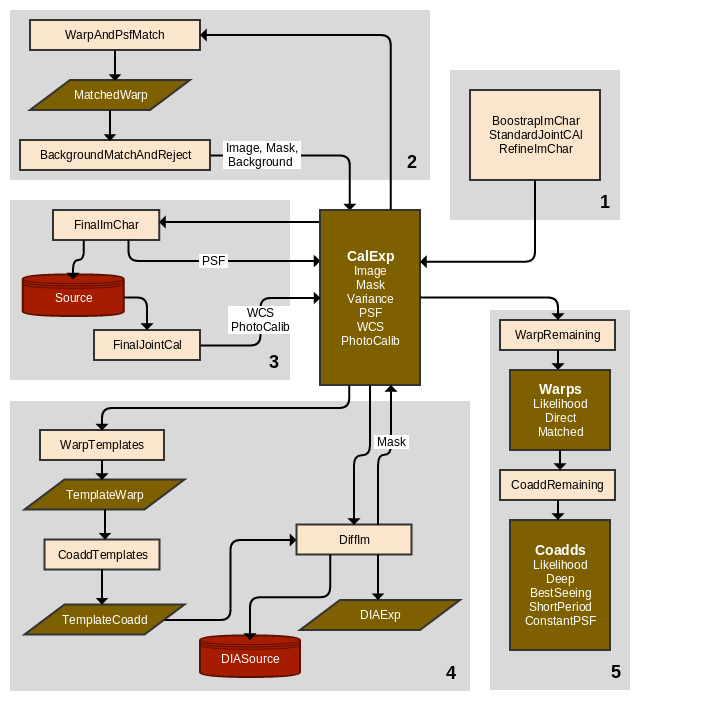
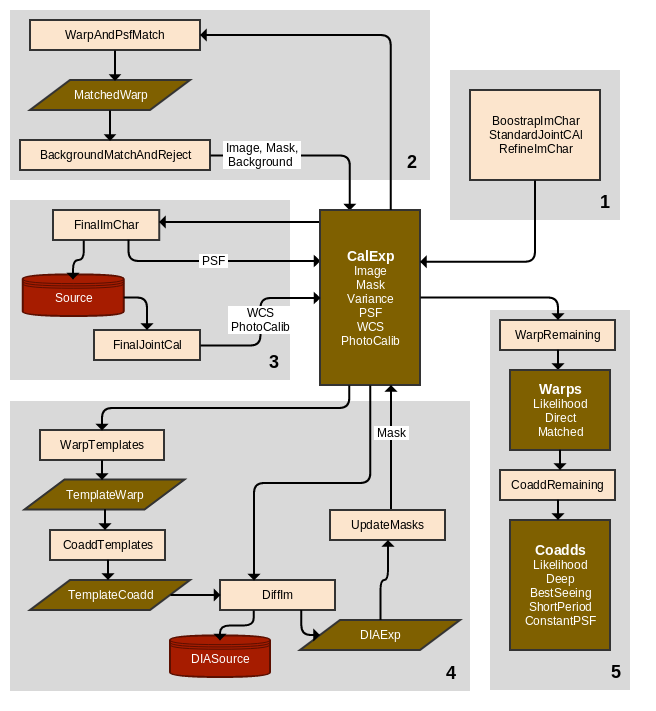
Extend DRP pipeline text through DiffIm.

diff --git a/sections/data_release_production_pipelines.tex b/sections/data_release_production_pipelines.tex
@@ -376,7 +376,7 @@ Note that RefineImChar does not update the CalExp's WCS, PhotoCalib, Image, or V
 \subsubsection{FinalImChar}
 \label{sec:drpFinalImChar}
 
-FinalImChar is responsible for producting the final PSF models and source measurements.  While similar to \hyperref[sec:drpRefineImChar]{RefineImChar}, it is run after at least one iteration of the \hyperref[sec:drpBackgroundMatchAndReject]{BackgroundMatchAndReject} and \hyperref[sec:drpDiffIm]{DiffIm} pipelines, which provide it with the final background model and mask, respectively.
+FinalImChar is responsible for producting the final PSF models and source measurements.  While similar to \hyperref[sec:drpRefineImChar]{RefineImChar}, it is run after at least one iteration of the \hyperref[sec:drpBackgroundMatchAndReject]{BackgroundMatchAndReject} and possibly \hyperref[sec:drpUpdateMasks]{UpdateMasks} pipelines, which provide it with the final background model and mask.
 
 The steps in FinalImChar are identical to those in \hyperref[sec:drpRefineImChar]{RefineImChar}, with just a few exceptions:
 
@@ -414,7 +414,7 @@ The processing flow in this pipeline group again centers around incremental upda
 \item The first version of the CalExp dataset is produced by running the \hyperref[sec:drpBootstrapImChar]{BootstrapImChar}, \hyperref[sec:drpStandardJointCal]{StandardJointCal}, and \hyperref[sec:drpRefineImChar]{RefineImChar} pipelines, as described in Section~\ref{sec:drp_imchar_and_jointcal}.
 \item We generate an updated Background and Mask via the \hyperref[sec:drpWarpAndPsfMatch]{WarpAndPsfMatch} and \hyperref[sec:drpBackgroundMatchAndReject]{BackgroundMatchAndReject} pipelines.  This produces the final CalExp Background and Image, and possibly the final Mask.
 \item If the CalExp Mask has been finalized, we run the \hyperref[sec:drpFinalImChar]{FinalImChar} and \hyperref[sec:drpFinalJointCal]{FinalJointCal} pipelines.  These produce the final PSF, WCS, and PhotoCal.  If the Mask has not been finalized, we execute at least one iteration of the next step before this one.
-\item We run the \hyperref[sec:drpWarpTemplates]{WarpTemplates}, \hyperref[sec:drpCoaddTemplates]{CoaddTemplates}, and \hyperref[sec:drpDiffim]{DiffIm} pipelines to generate the DIASource and DIAExp datasets.  These steps may generate better CalExp Masks than we can obtain from \hyperref[sec:drpBackgroundMatchAndReject]{BackgroundMatchAndReject}, and we may require multiple iterations of these pipelines to converge to the best Mask.
+\item We run the \hyperref[sec:drpWarpTemplates]{WarpTemplates}, \hyperref[sec:drpCoaddTemplates]{CoaddTemplates}, and \hyperref[sec:drpDiffIm]{DiffIm} pipelines to generate the DIASource and DIAExp datasets.  We may then be able to generate better CalExp Masks than we can obtain from \hyperref[sec:drpBackgroundMatchAndReject]{BackgroundMatchAndReject} by comparing the DIAExp masks across visits in the \hyperref[sec:drpUpdateMasks]{UpdateMasks} pipeline.
 \item After all CalExp components have been finalized, we run the \hyperref[sec:drpWarpRemaining]{WarpRemaining} and \hyperref[sec:drpCoaddRemaining]{CoaddRemaining} to build additional coadd data products.
 \end{enumerate}
 The baseline ordering of these steps is thus \{1,2,3,4,5\}, but \{1,2,4,3,4,5\} is perhaps just as likely, and we may ultimately require an ordering that repeats steps 2 or 3.  Final decisions on the ordering and number of iteration will require testing with mature pipelines and a deep dataset taken with a realistic cadence; it is possible the configuration could even change between data releases as the survey increases in depth.  Fortunately, this reconfiguring should not require significant new algorithm development.
@@ -432,19 +432,22 @@ This pipeline group is responsible for producing the following final data produc
 \item[TemplateCoadd] A coadd data product used for difference imaging in both DRP and AP, \emph{or} some other tract/patch/filter data product from which the template for a given airmass can be derived.
 \end{description}
 
-It is possible that our algorithms will allow some coadd data products to be merged, which will also have implications on the pipelines used to build them.  There are two major branch points:
+The nature of these coadd data products depends critically on whether we are able to develop efficient algorithms for optimal coaddition, and whether these coadds are suitable for difference imaging.  These algorithms are mathematically well-defined but computationally difficult; see \href{http://dmtn-015.lsst.io/en/latest/}{DMTN-15} for more information.  We will refer to the coadds produced by these algorithms as ``decorrelated coadds''; a variant with constant PSF (``constant-PSF partially decorrelatd coadd'') is also possible.  This choice is also mixed with the question of how we will correct for differential chromatic refraction in difference imaging; some algorithms for DCR correction involve templates that are the result of inference on input exposures rather than coaddition.  There are five main scenarios for our use of decorrelated coadds:
 \begin{description}
-\item[A] Can we develop an algorithm that efficiently decorrelates likelihood coadds (see \href{http://dmtn-015.lsst.io/en/latest/}{DMTN-15} and Section~\ref{sec:acCoaddDecorrelation})?
+  \item[A] \label{option:decorrelated-everything} We use decorrelated coadds for all final coadd products.  DeepCoadd and ShortPeriodCoadd will be standard decorrelated coadds with a spatially-varying PSF, and ConstantPSFCoadd and TemplateCoadd will be constant-PSF partially-decorrelated coadds.  The BestSeeingCoadd data product will be dropped, as it will be redundant with DeepCoadd.  This will make coadds more expensive and complex to build, and require more algorithm development for coaddition, but will improve coadd-based measurements, make it easier to warm-start multi-epoch measurements.  Difference imaging may be easier, and more visits may be usable as inputs to templates due to softened or eliminated seeing cut.
+  \item[B] \label{option:decorrelated-meas-coadds} We use decorrelated coadds for all coadds but TemplateCoadd.  Measurement is still improved, and the additional computational cost of coaddition is limited to a single pipeline that is not run iteratively.  Difference imaging may be harder, and the number of visits eligible for inclusion in templates may be reduced.  In this scenario, we still have two options for building templates:
   \begin{description}
-  \item[Yes:] DeepCoadd and ShortPeriodCoadd will be decorrelated coadds, and ConstantPSFCoadd will be a constant-PSF partially-decorrelated coadd.  The BestSeeingCoadd data product will be dropped, as it will be redundant with DeepCoadd.  This will make coadds more expensive and complex to build, and require more algorithm development for coaddition.
-  \item[No:] DeepCoadd, BestSeeingCoadd, and ShortPeriodCoadd will be direct coadds, and ConstantPSFCoadd will be a PSF-matched coadd.  This will yield lower-quality coadd measurements and make it harder to warm-start multi-epoch measurements.
+    \item[B1] \label{option:psf-matched-templates-b} Templates will be built as PSF-matched coadds, or a product of PSF-matched coadds.
+    \item[B2] \label{option:inferred-templates-b}Templates are the result of inference on resampled exposures with no PSF-matching.
   \end{description}
-\item[B] Can we build decorrelated coadds suitable for difference imaging (like direct coadds, decorrelated coadds may have subtly poorly-defined PSFs in the neighborhood of variable objects)?
+  \item[C] \label{option:no-decorrelated-coadds} We do not use decorrelated coadds at all.  DeepCoadd, BestSeeingCoadd, and ShortPeriodCoadd will be direct coadds, and ConstantPSFCoadd will be a PSF-matched coadd.  Coaddition will be simpler and faster, but downstream algorithms may require more sophistication, coadd measurements may be lower quality, and multi-epoch measurements may be more difficult to optimize.  Here we again have the same two options for templates as option \ref{option:decorrelated-meas-coadds}:
   \begin{description}
-  \item[Yes:] We will use constant-PSF partially-decorrelated coadds for difference imaging templates.  Because templates must support DCR correction, we do not assume that the TemplateCoadd and ConstantPSFCoadd datasets are identical (though they may be, especially in the redder bands).  This will make template generation more complex and expensive, and require additional algorithm development for coaddition.
-  \item[No:] We will use PSF-matched coadds for difference imaging templates.  This will increase noise in templates and limit the visits that can be used to build a template (which may matter if a broad or finely-sampled range or airmasses is necessary for DCR correction).
+    \item[C1] \label{option:psf-matched-templates-c} Templates will be built as PSF-matched coadds, or a product of PSF-matched coadds.
+    \item[C2] \label{option:inferred-templates-c} Templates are the result of inference on resampled exposures with no PSF-matching.
   \end{description}
 \end{description}
+It is also possible to combine multiple scenarios across different bands.  In particular, we may not need special templates to handle DCR in redder bands, so we may select a simpler approach to dealing with them in those bands.  The final selection between these options will require experiments on LSST data or precursor data with similar DCR and seeing, though decorrelated coaddition algorithms and some approaches to DCR correction may be ruled out earlier if preliminary algorithm development does not go well.
+
 Further differences in the pipelines themselves due to the presence or absence of decorrelated coadds will be described in the sections below.
 
 \subsubsection{WarpAndPsfMatch}
@@ -470,20 +473,64 @@ The steps involved in background matching are described below.  All of these ope
 \item We build a PSF-matched coadd by adding all of the visit images (including the reference) and subtracting all of the difference image backgrounds; this yields a coadd that contains only the reference image background, which we then model and subtract by again using the \hyperref[sec:acBackgroundEstimation]{Background Estimation} algorithmic component.  Combining the images will be performed by the \hyperref[sec:acCoaddition]{Coaddition} algorithmic component, which will also generate new CalExp masks by analyzing the per-pixel, multi-visit histograms of image and mask values (e.g. generalized statistical outlier rejection) to distinguish transients and artifacts from variable sources.
 \end{enumerate}
 
-We are assuming in the baseline plan that we can use a matched-to PSF in \hyperref[sec:drpWarpAndPsfMatch]{WarpAndPsfMatch} large enough to match all visit images to it without deconvolution.  If a large marged-to PSF adversely affects subsequent processing in \hyperref[sec:drpBackgroundMatchAndReject]{BackgroundMatchAndReject}, we may need to develop an iterative approach in which we apply \hyperref[sec:drpWarpAndPsfMatch]{WarpAndPsfMatch} only to better-seeing visits first, using a smaller target PSF, run \hyperref[sec:drpBackgroundMatchAndReject]{BackgroundMatchAndReject} on these, and then re-match everything to a larger target PSF and repeat with a larger set of input visits.  However, this problem would suggest that the \hyperref[sec:DiffIm]{DiffIm} pipeline would be even better at finding artifacts, so a more likely mitigation strategy would be to simply defer final Mask generation to after at least one iteration of \hyperref[sec:DiffIm]{DiffIm}, as described in the discussion of Figure~\ref{fig:drp_coaddition_and_diffim} at the beginning of Section~\ref{sec:drp_coaddition_and_diffim}.
+We are assuming in the baseline plan that we can use a matched-to PSF in \hyperref[sec:drpWarpAndPsfMatch]{WarpAndPsfMatch} large enough to match all visit images to it without deconvolution.  If a large marged-to PSF adversely affects subsequent processing in \hyperref[sec:drpBackgroundMatchAndReject]{BackgroundMatchAndReject}, we may need to develop an iterative approach in which we apply \hyperref[sec:drpWarpAndPsfMatch]{WarpAndPsfMatch} only to better-seeing visits first, using a smaller target PSF, run \hyperref[sec:drpBackgroundMatchAndReject]{BackgroundMatchAndReject} on these, and then re-match everything to a larger target PSF and repeat with a larger set of input visits.  However, this problem would suggest that the \hyperref[sec:drpDiffIm]{DiffIm} and \hyperref[sec:drpUpdateMasks]{UpdateMasks} pipelines would be even better at finding artifacts, so a more likely mitigation strategy would be to simply defer final Mask generation to after at least one iteration of those pipelines, as described in the discussion of Figure~\ref{fig:drp_coaddition_and_diffim} at the beginning of Section~\ref{sec:drp_coaddition_and_diffim}.
 
 The outputs of BackgroundMarchAndReject are updated Background and Mask components for the CalExp product.  Because it is not built with the final photometric and astrometric calibration, the PSF-matched coadd built here is discarded.
 
 \subsubsection{WarpTemplates}
 \label{sec:drpWarpTemplates}
 
+This pipeline is responsible for generating the resampled visit-level images (TemplateWarp) used to build template coadds for difference imaging.  The algorithmic content of this pipeline and the nature of its outputs depends on whether we are using decorrelated coadds (\ref{option:decorrelated-everything} at the beginning of \ref{sec:drp_coaddition_and_diffim}), PSF-matched coadds (\ref{option:psf-matched-templates-b} or \ref{option:psf-matched-templates-c}), or inferring templates (\ref{option:inferred-templates-b} or \ref{option:inferred-templates-c}).
+
+If we are using decorrelated coadds (\ref{option:decorrelated-everything}), the output is equivalent to the LikelihoodWarp data product produced by the \hyperref[sec:drpWarpRemaining]{WarpRemaining} pipeline (aside from differences due to the state of the input CalExps), and the algorithm to produce it the same:
+\begin{itemize}
+\item We correlate the image with its own PSF by delegating to the \hyperref[sec:spKernels]{Convolution Kernels} software primitive.
+\item We resample the image by delegating to the \hyperref[sec:acWarping]{Image Warping} algorithmic component.
+\end{itemize}
+As with other convolution-and-warping pipelines, it is possible we will instead develop a single algorithmic component to perform both operations.  These operations must include full propogation of uncertainty.
+
+If we are not using decorrelated coadds (\ref{option:psf-matched-templates-b} or \ref{option:psf-matched-templates-c}), the output is equivalent to the MatchedWarp data product, and the algorithm is the same as the \hyperref[sec:drpWarpAndPsfMatch]{WarpAndPsfMatch} pipeline that produces.  We cannot reuse existing MatchedWarps simply because we need to utilize updated CalExps.
+
+If we are inferring templates (\ref{option:inferred-templates-b} or \ref{option:inferred-templates-c}), this pipeline is only responsible for resampling, producing an output equivalent to the DirectWarp data product produced by the \hyperref[sec:drpWarpRemaining]{WarpRemaining} pipeline.  This work is delegated to the \hyperref[sec:acWarping]{Image Warping} algorithmic component.
+
 \subsubsection{CoaddTemplates}
 \label{sec:drpCoaddTemplates}
+
+This pipeline generates the TemplateCoadd dataset used as the reference image for difference imaging.  This may not be a simple coadd, at least in bluer bands; in order to correct for differential chromatic refraction during difference imaging, we may need to add a wavelength or airmass dimension to the usual 2-d image, making a 3-d dimensional quantity.  The size of the third dimension will likely be small, however, so it should be safe to generally consider TemplateCoadd to be a small suite of coadds, in which a 2-d image is the result a different sum of or fit to the usual visit-level images (the TemplateWarp dataset, in this case).
+
+Most of the work is done by the \hyperref[sec:acDCRTemplates]{DCR-Corrected Template Generation} algorithmic component, but its behavior depends on which of the coaddition scenarios is selected from the list at the beginning of Section~\ref{sec:drp_coaddition_and_diffim}):
+\begin{description}
+\item[A,B1,C1] One or more coadd-like images (corresponding to different wavelengths, airmasses, etc.) are created by delegating to the \hyperref[sec:acCoaddition]{Coaddition} algorithmic component to sum the TemplateWarp images with different weights.  \textbf{A only:} coadded images are then partially decorrelated to constant PSF by delegating to the \hyperref[sec:acCoaddDecorrelation]{Coadd Decorrelation} algorithmic component.
+\item[B2,C2] The template is inferred from the resample visit images using an inverse algorithm that is yet to be developed.
+\end{description}
+
 \subsubsection{DiffIm}
 \label{sec:drpDiffIm}
 
-\subsubsection{WarpRemainder}
-\label{sec:drpWarpRemainder}
+In the DiffIm pipeline, we subtract a warped TemplateCoadd from each CalExp, yielding the DIAExp image, where we detect and characterize DIASources.  This is quite similar to Alert Production's \hyperref[sec:apAlertDetection]{Alert Detection} pipeline but may not be identical for several reasons.  The AP variant must be optimized for low latency, and hence may avoid full-visit processing that is perfectly acceptable in DRP.  In addition, the input CalExps will have been better characterized in DRP, which may make some steps taken in AP unimportant or even counterproductive.  However, we expect that the algorithmic components utilized in DRP are the same as those used by AP.
+
+The steps taken by DRP DiffIm are:
+\begin{enumerate}
+\item Retrieve the DiffIm template appropriate for the CalExps to be processed (probably handling a full visit at a time), delegating to the \hyperref[sec:acRetrieveTemplate]{Template Retrieval} algorithmic component.  This selects the appropriate region of sky, and if necessary, collapses a higher-dimensional template dataset to a 2-d image appropriate for the CalExp's airmass.
+\item (optional) Correlate the CalExp with its own PSF, delegating to the \hyperref[sec:spKernels]{Convolution Kernel} software primitive.  This is the ``preconvolution'' approach to difference imaging, which makes PSF matching easier by performing PSF-correlation for detection first, reducing or eliminating the need for deconvolution.  This approach is theoretically quite promising but still needs development.
+\item Resample the template to the coordinate system of the CalExp, by delegating to the \hyperref[sec:acWarping]{Image Warping} algorithmic component.
+\item Match the template's PSF to the CalExp's PSF and subtract them, by delegating to the \hyperref[sec:acImageSubtraction]{Image Subtraction} algorithmic component.
+\item Run \hyperref[sec:acSourceDetection]{Source Detection} on the difference image.  We correlate the image with its PSF first using the \hyperref[sec:spKernels]{Convolution Kernels} software primitive unless this was done prior to subtraction.
+\item (optional) Decorrelate the CalExp by delegating to the \hyperref[sec:acDiffImDecorrelation]{Difference Image Decorrelation} algorithmic component.
+\item Run \hyperref[sec:acDiffImMeasurement]{DiffIm Measurement} on the difference image to characterize difference sources.  If preconvolution is used but decorrelation is not, the difference image cannot be measured using algorithms applied to standard images; alternate algorithms may be developed for some measurements, but perhaps not all.
+\end{enumerate}
+
+DiffIm can probably be run entirely independently on each CCD image; this will almost certainly be taken in Alert Production.  However, joint processing across a full visit may be more computationally efficient for at least some parts of template retrieval, and PSF-matching may produce better results if a more sophisticated full-visit matching algorithm is developed.
+
+\subsubsection{UpdateMasks}
+\label{sec:drpUpdateMasks}
+
+UpdateMasks is an optional pipeline that is only run if DIAExp masks are being used to update CalExp masks.  As such, it is not run after the last iteration of \hyperref[sec:drpDiffIm]{DiffIm}, and is never run if \hyperref[sec:drpBackgroundMatchAndReject]{BackgroundMatchAndReject} constructs the final CalExp masks.
+
+Like \hyperref[sec:drpBackgroundMatchAndReject]{BackgroundMatchAndReject}, UpdateMasks compares the histogram of mask values at a particular spatial point to determine which masks correspond to transients (both astrophysical sources and artifacts; we want to reject both from coadds) and which correspond to variable objects.  This work is delegated to \hyperref[sec:acCoaddition]{Coaddition}.
+
+\subsubsection{WarpRemaining}
+\label{sec:drpWarpRemaining}
 
 \subsubsection{CoaddRemaining}
 \label{sec:drpCoaddRemaining}

diff --git a/sections/algorithmic_components.tex b/sections/algorithmic_components.tex
@@ -140,6 +140,8 @@ The driver for Multi-Coadd Measurement is passed an input/output \hyperref[sec:s
 
 The signatures of difference image measurement's drivers and algorithms are at least somewhat TBD; they will take at least a difference image \hyperref[sec:spImagesExposure]{Exposures} and a \hyperref[sec:spTablesSource]{SourceCatalog/SourceRecord}, but some plugins such as dipole measurement may require access to a direct image as well.  Because difference imaging dramatically reduces blending, difference image measurement may require any approach to blended measurement (though any use of the associated direct image would require deblending).
 
+If preconvolution is used to construct difference images, but they are not subsequently decorrelated, the algorithms run in difference image measurement cannot be implemented in the same way as those run in other measurement variants, and algorithms that cannot be expressed as a PSF-convolved model fit (such as second-moment shapes and all aperture fluxes) either cannot be implemented or require local decorrelation.
+
 \paragraph{Multi-Epoch Measurement:} Measure multiple direct images simultaneously by fitting the same \hyperref[sec:spWCS]{WCS}-transformed, \hyperref[sec:spPSF]{PSF}-convolved model to them.  Blended objects in Multi-Epoch Measurement will be handled by \emph{at least} fitting them simutaneously (\ref{sec:acSimultaneousFitting}), which may in turn require hybrid galaxy/star models (\ref{sec:acHybridModels}).  These models may then be used as templates for deblending and replace-with-noise (\ref{sec:acReplaceNeighborsWithNoise}) measurement if this improves the results.
 \label{sec:acMultiEpochMeasurement}
 
@@ -454,7 +456,7 @@ The above describes the current warping implementation in afw. We should identif
 \label{sec:acCoaddition}
 AUTHOR: Jim
 \begin{itemize}
-\item Can do outlier rejection (but usually doesn't).
+\item Must be able to do generalized outlier rejection, using histograms of detection masks produced on difference images.
 \item Needs to propagate full uncertainty somehow.
 \item May need to propagate larger-scale per-exposure masks to get right PSF model or other coadded quantities.
 \item Should be capable of combining coadds from different bands and/or epoch ranges ranges as well as combining individual exposures.
